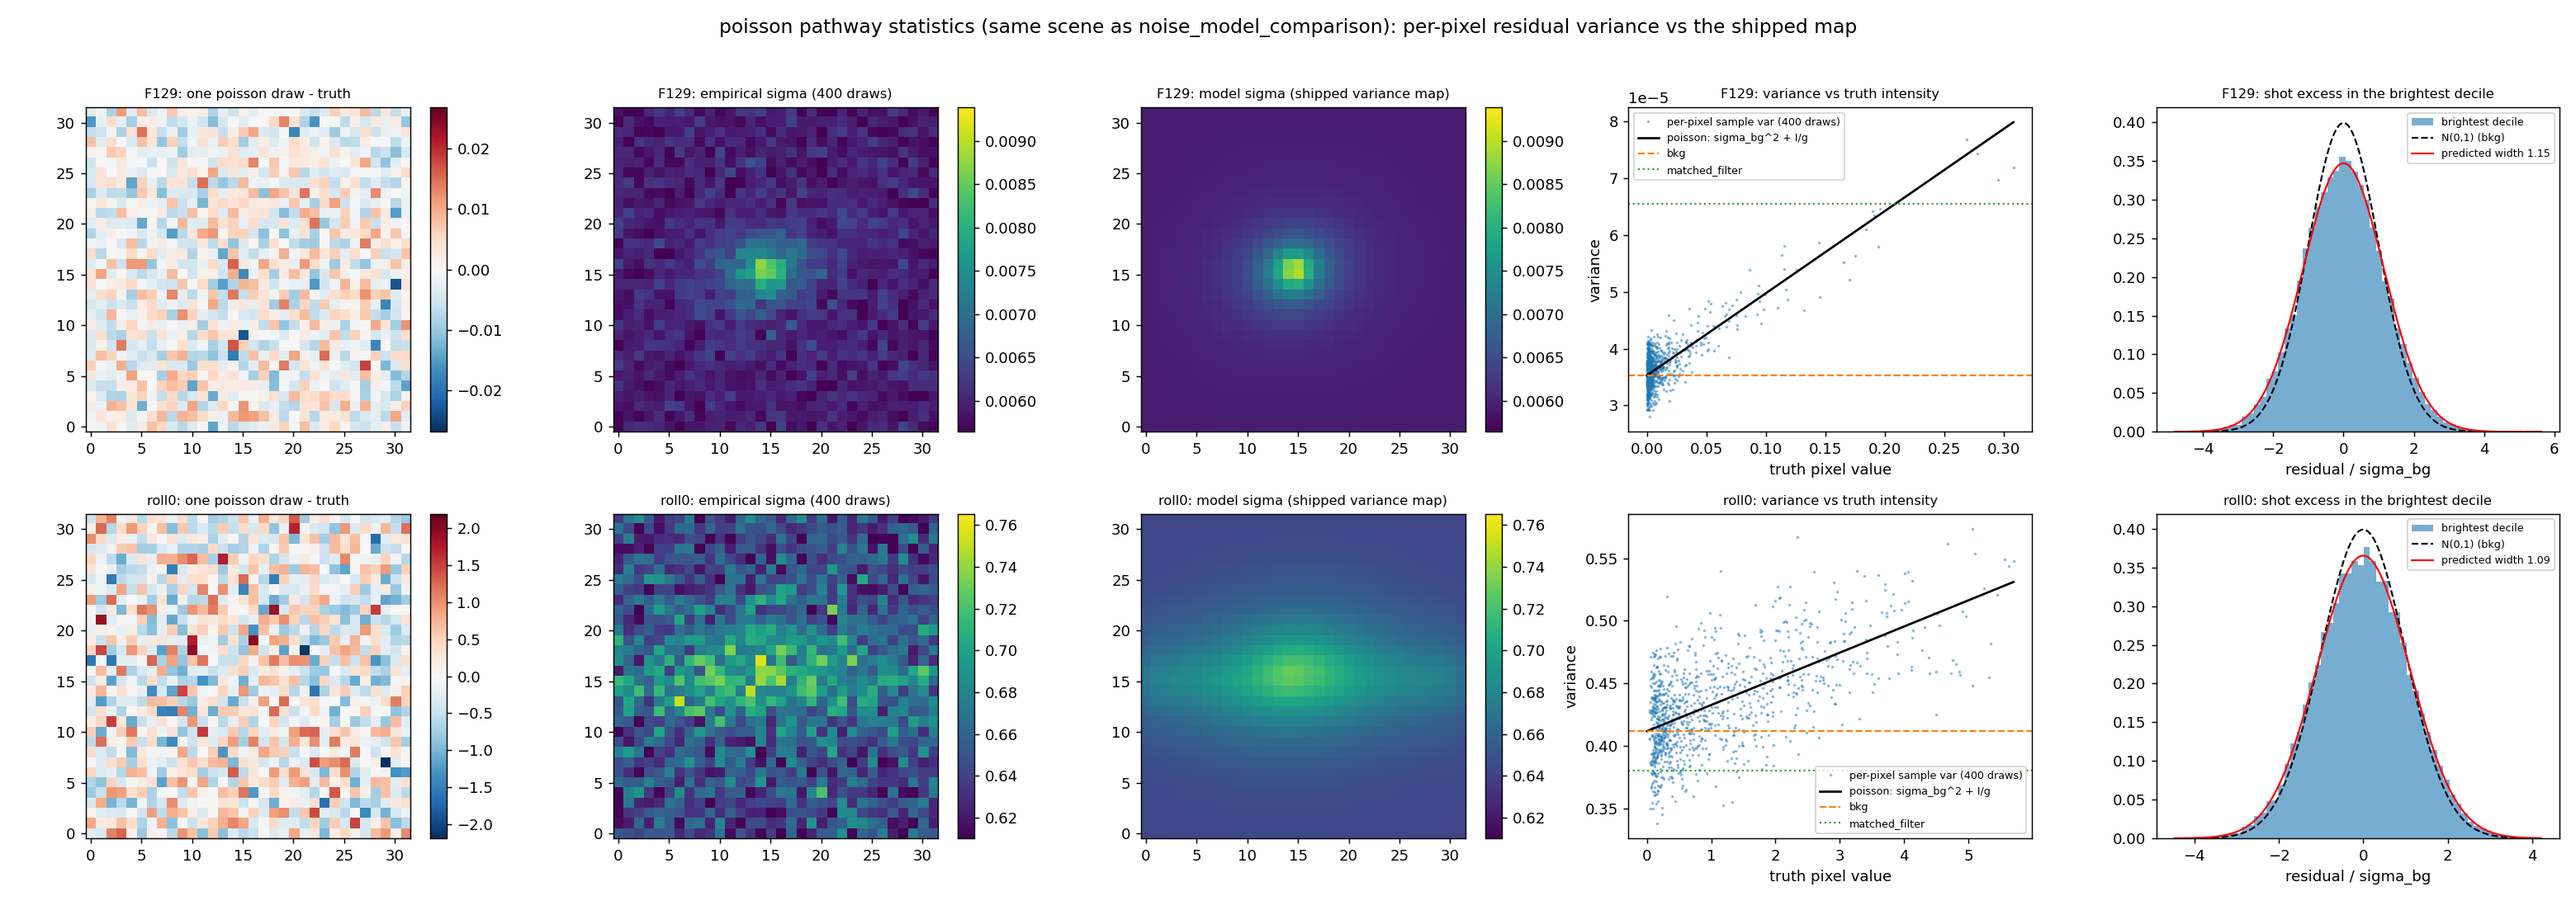
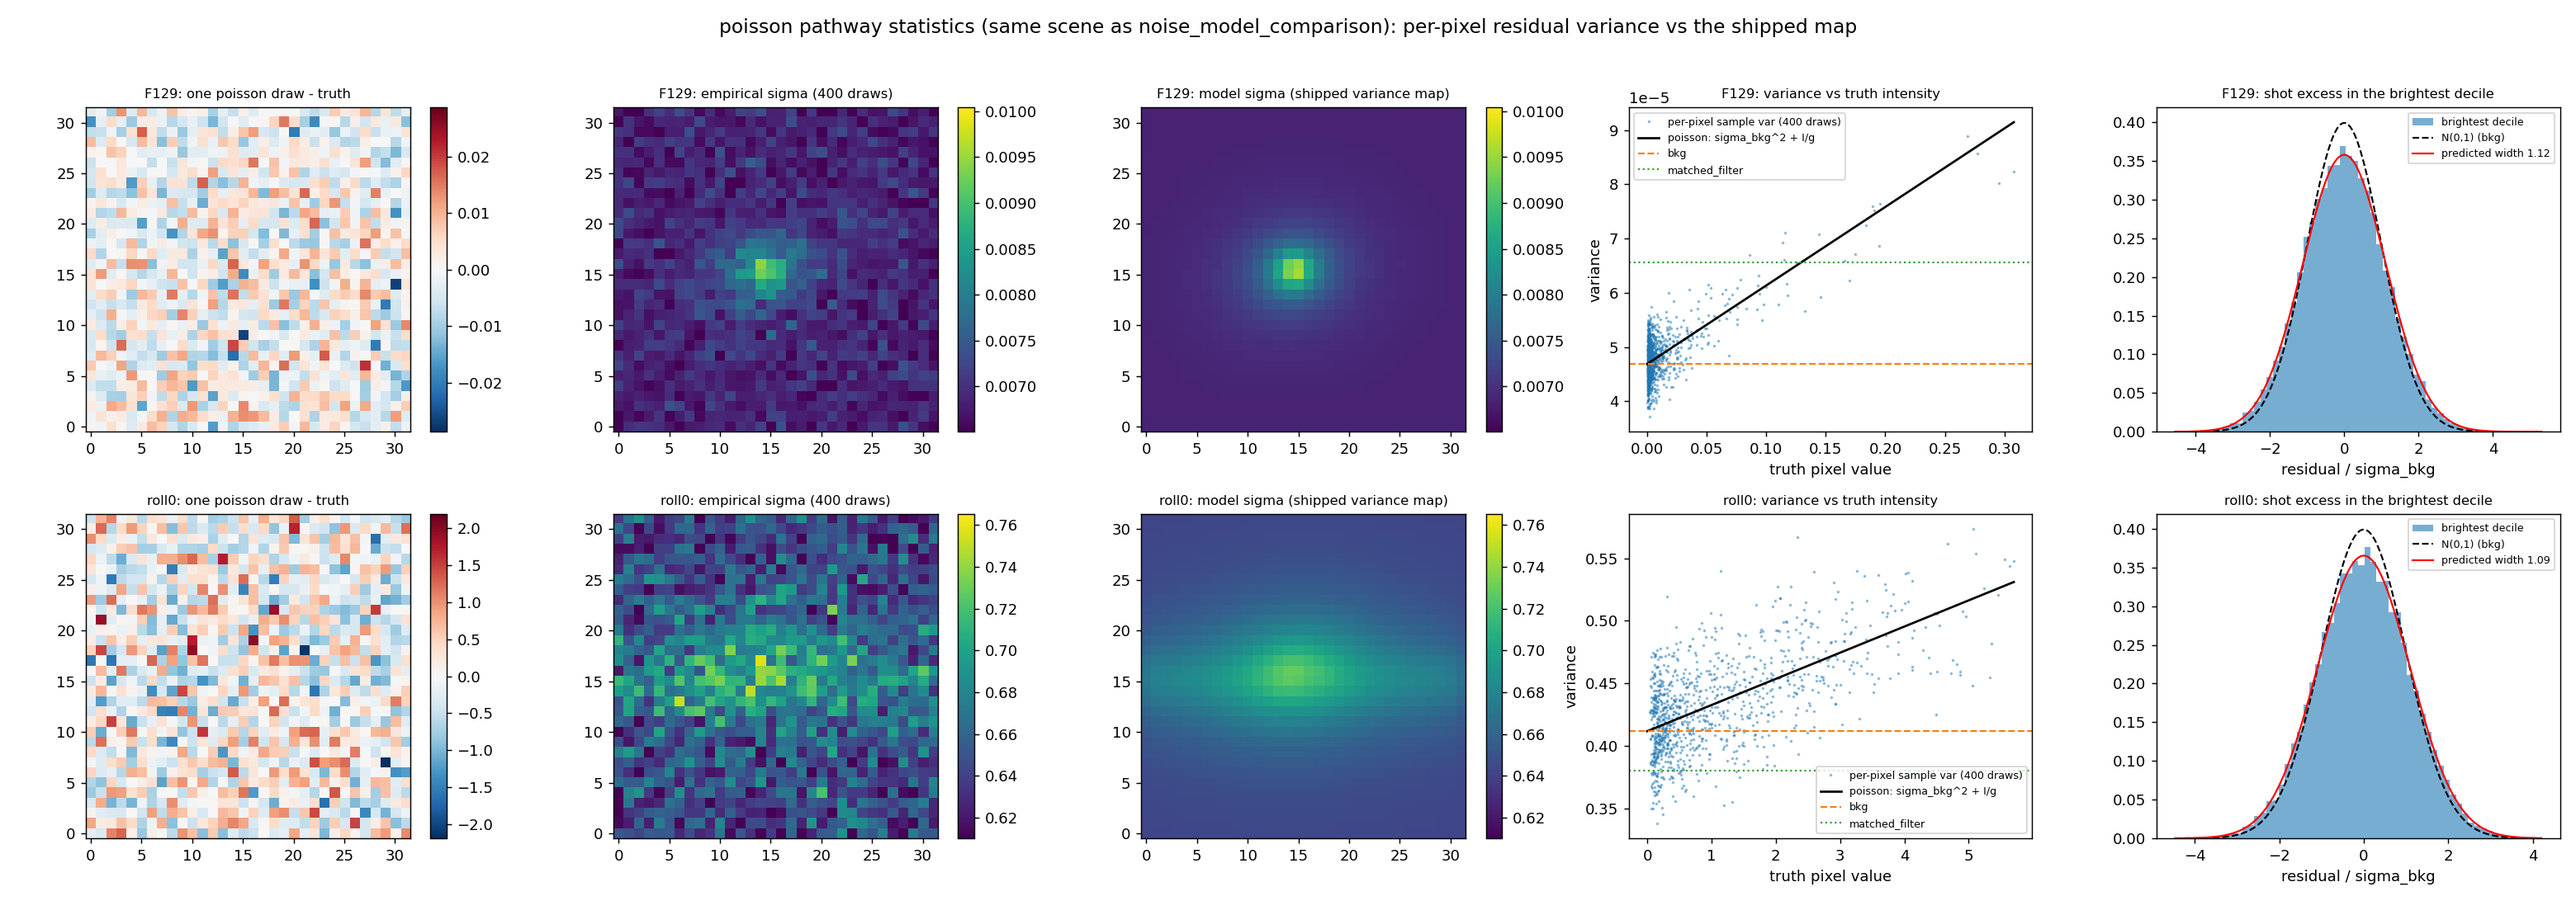
ensemble: phase-averaged point-source depth anchor, bounded zodi electron-scale check

diff --git a/kl_pipe/ensemble/mocks.py b/kl_pipe/ensemble/mocks.py
@@ -353,15 +353,22 @@ def _wcs_with_pc(shape, pixel_scale: float, rotation_radians: float):
     return wcs
 
 
-def _psf_l2_norm(psf, pixel_scale: float) -> float:
+def _psf_l2_norm(psf, pixel_scale: float, phase_average: bool = True) -> float:
     """L2 norm of the unit-flux PSF image at the survey pixel scale.
 
     ||K||_2 of the point-source template the published imaging depths refer
     to, drawn from the same PSF object the mock renders with (pixel
-    integration included via galsim drawImage). The default stamp truncates
-    far-wing flux at the folding threshold; that costs the L2 norm almost
-    nothing (wings are tiny per pixel), but a badly truncated draw means
-    the wrong PSF object and raises.
+    integration included via galsim drawImage). A published depth describes
+    a point source at a random subpixel position, so the anchor norm is the
+    mean over a 4x4 grid of subpixel offsets (converged to ~1e-5 against
+    8x8 on the production Roman PSF; the corner-vs-mean spread is a 5-15%
+    effect on sigma_bkg). ``phase_average=False`` gives the single
+    corner-phase draw (galsim's even-stamp default, the same phase as
+    kl_pipe's own even-stamp grids), for closure tests against a
+    corner-phase render. The default stamp truncates far-wing flux at the
+    folding threshold; that costs the L2 norm almost nothing (wings are
+    tiny per pixel), but a badly truncated draw means the wrong PSF object
+    and raises.
     """
     image = psf.drawImage(scale=pixel_scale)
     total = float(image.array.sum())
@@ -370,7 +377,30 @@ def _psf_l2_norm(psf, pixel_scale: float) -> float:
             f"unit-flux PSF image sums to {total:.4f}; the point-source "
             f"template is badly truncated or unnormalized"
         )
-    return float(np.sqrt(np.sum(np.asarray(image.array, dtype=np.float64) ** 2)))
+    if not phase_average:
+        return float(np.sqrt(np.sum(np.asarray(image.array, dtype=np.float64) ** 2)))
+    # odd stamp so offset=(0,0) is pixel-centered and the 4x4 grid spans
+    # one full pixel of subpixel phases
+    n = image.array.shape[0] + 1
+    phases = (np.arange(4) + 0.5) / 4 - 0.5
+    norms = [
+        float(
+            np.sqrt(
+                np.sum(
+                    np.asarray(
+                        psf.drawImage(
+                            nx=n, ny=n, scale=pixel_scale, offset=(dx, dy)
+                        ).array,
+                        dtype=np.float64,
+                    )
+                    ** 2
+                )
+            )
+        )
+        for dx in phases
+        for dy in phases
+    ]
+    return float(np.mean(norms))
 
 
 def _make_band_obs(

diff --git a/tests/test_surveys_roman.py b/tests/test_surveys_roman.py
@@ -325,3 +325,41 @@ class TestBackgroundAnchors:
             roman.band_sigma_bkg_ujy('F129', 0.0)
         with pytest.raises(ValueError, match='ref_line_l2_norm'):
             roman.grism_sigma_bkg_per_pass(-1.0)
+
+    def test_anchor_above_physical_floor(self):
+        # independent check of the electron scale: the depth-derived anchor
+        # in electrons must sit modestly above the physical background floor
+        # (galsim zodi model + thermal + dark + read noise over the same
+        # 6-exposure coadd). Everything upstream of the anchor is depth-
+        # anchored and self-correcting; ELECTRONS_PER_UJY is not, and a
+        # factor-f error there moves this ratio by exactly f. Measured
+        # 1.55 / 1.40 (F129 / F158) on galsim 2.8.4 at the pinned pointing;
+        # the window allows sky-model drift at the tens-of-percent level
+        # while an electron-scale error above ~25% fails on one side or the
+        # other (below 1.0 is physically impossible: a survey cannot beat
+        # its own zodi + read noise).
+        import galsim
+        import galsim.roman as groman
+
+        n_exp = 6  # 2 passes x 3 dithers of 107.25 s (ROTAC Sect. 4.4.3)
+        # near-ecliptic pointing (COSMOS-like), the conservative high-zodi end
+        pos = galsim.CelestialCoord(ra=150.0 * galsim.degrees, dec=2.0 * galsim.degrees)
+        bandpasses = groman.getBandpasses(AB_zeropoint=True)
+        legacy = {'F129': 'J129', 'F158': 'H158'}
+        for band, sigma_ujy in roman.SIGMA_BKG_DEFAULT_UJY.items():
+            bp = bandpasses[legacy[band]]
+            # getSkyLevel returns e-/arcsec^2 for the requested exptime
+            sky_e = (
+                groman.getSkyLevel(bp, world_pos=pos, exptime=roman.T_EXP_IMAGING_S)
+                * groman.pixel_scale**2
+            )
+            thermal_e = groman.thermal_backgrounds[legacy[band]] * roman.T_EXP_IMAGING_S
+            dark_e = groman.dark_current * roman.T_EXP_IMAGING_S
+            floor_e = np.sqrt(sky_e + thermal_e + dark_e + n_exp * groman.read_noise**2)
+            anchor_e = sigma_ujy * roman.ELECTRONS_PER_UJY[band]
+            ratio = anchor_e / floor_e
+            assert 1.1 < ratio < 1.9, (
+                f"{band}: depth anchor {anchor_e:.1f} e- vs physical floor "
+                f"{floor_e:.1f} e- (ratio {ratio:.2f}); the electron scale "
+                f"or the background anchor moved"
+            )

diff --git a/tests/test_ensemble_noise.py b/tests/test_ensemble_noise.py
@@ -271,7 +271,13 @@ class TestPointSourceClosure:
         band = 'F129'
         pixel_scale = 0.11
         psf = galsim.Gaussian(fwhm=0.18)
-        sigma_bkg = roman.band_sigma_bkg_ujy(band, _psf_l2_norm(psf, pixel_scale))
+        # corner phase on both sides: kl_pipe's even-stamp grid puts the
+        # centered source on a pixel corner, so the anchor must use the
+        # matching single-phase norm (the production anchor's phase MEAN
+        # would close to 5 x corner/mean instead of 5)
+        sigma_bkg = roman.band_sigma_bkg_ujy(
+            band, _psf_l2_norm(psf, pixel_scale, phase_average=False)
+        )
 
         model = InclinedExponentialModel()
         pars = {
@@ -336,10 +342,10 @@ class TestProductionSigmaBgPins:
     (roman_wfi PSF, 0.11 arcsec pixels, oversample 3) so an upstream change
     (galsim PSF model, depth constants, the derivation itself) moves the
     production noise loudly instead of silently. In electrons
-    (x ELECTRONS_PER_UJY) the band anchors are ~41/41 e- rms per pixel,
+    (x ELECTRONS_PER_UJY) the band anchors are ~47/43 e- rms per pixel,
     plausibly above a first-principles zodi+read estimate -- expected,
-    since published depths carry real-survey margins (see the background
-    block in kl_pipe/surveys/roman.py).
+    since published depths carry real-survey margins; a bounded version of
+    that comparison lives in tests/test_surveys_roman.py.
     """
 
     def test_band_pins(self):

diff --git a/kl_pipe/surveys/roman.py b/kl_pipe/surveys/roman.py
@@ -248,8 +248,12 @@ GRISM_REF_LINE_WIDTH_KMS = 30.0
 # the instrument model, which moves the anchor at the tens-of-percent level,
 # so a different PSF or pixel scale means re-anchoring through the functions
 # below rather than editing these. Rendered with galsim 2.8.4 (the PSF model
-# enters the anchor, so a galsim upgrade can move these).
-SIGMA_BKG_DEFAULT_UJY = {'F129': 5.9396e-3, 'F158': 5.7246e-3}
+# enters the anchor, so a galsim upgrade can move these). The imaging
+# point-source template is the mean over subpixel positions (a published
+# depth describes a randomly placed source); the single corner-phase draw
+# used before 2026-08-28 gave anchors 13/6 percent deeper (5.9396e-3 /
+# 5.7246e-3).
+SIGMA_BKG_DEFAULT_UJY = {'F129': 6.8460e-3, 'F158': 6.0594e-3}
 GRISM_SIGMA_BKG_DEFAULT_PER_PASS_F17 = 0.641615
 
 

diff --git a/docs/units_and_conventions.md b/docs/units_and_conventions.md
@@ -77,9 +77,11 @@ that assembly per fit.
 
   1. `sigma_bkg`, a flat background level. Anchored to the published survey
      depth: render the source the published limit refers to (imaging: a
-     point source through the config's PSF; grism: the 0.25″ reference disk
-     in `surveys/roman.py`), and set `sigma_bkg` so that source is recovered
-     at exactly 5σ. One value per band; one per grism roll.
+     point source through the config's PSF, averaged over subpixel
+     positions since a published depth describes a randomly placed source;
+     grism: the 0.25″ reference disk in `surveys/roman.py`), and set
+     `sigma_bkg` so that source is recovered at exactly 5σ. One value per
+     band; one per grism roll.
   2. The source's own shot noise: pixel flux converted to detected
      electrons via `g` (`ELECTRONS_PER_UJY`,
      `grism_electrons_per_f17_per_pass` — zeropoint × exposure-time
